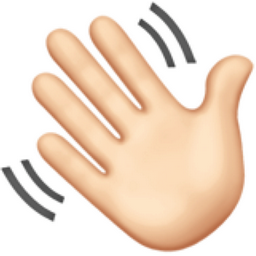
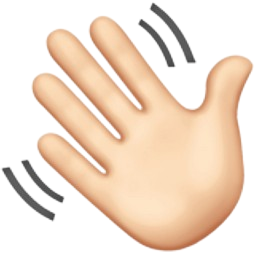
Add Animate

diff --git a/tailwind.config.js b/tailwind.config.js
@@ -2,7 +2,22 @@
 export default {
   content: ["./index.html", "./src/**/*.{js,ts,jsx,tsx}"],
   theme: {
-    extend: {},
+    extend: {
+      keyframes: {
+        wave: {
+          '0%': { transform: 'rotate(0deg)' },
+          '10%': { transform: 'rotate(14deg)' },
+          '20%': { transform: 'rotate(-8deg)' },
+          '30%': { transform: 'rotate(14deg)' },
+          '40%': { transform: 'rotate(-4deg)' },
+          '50%': { transform: 'rotate(10deg)' },
+          '60%, 100%': { transform: 'rotate(0deg)' }
+        }
+      },
+      animation: {
+        wave: 'wave 2.5s ease-in-out infinite'
+      }
+    },
     fontFamily: {
       poppins: ["Poppins", "sans-serif"],
       jakarta: ["Plus Jakarta Sans", "sans-serif"],

diff --git a/src/Pages/Home.jsx b/src/Pages/Home.jsx
@@ -78,7 +78,7 @@ function Home() {
                   data-aos-duration="1000"
                 >
                   Hii, I'm Bintang Yudha!
-                  <img src={WavingHand} className="w-8 h-8" />
+                  <img src={WavingHand} className="w-8 h-8 transition-all origin-[70%_70%] animate-wave" />
                 </h1>
 
                 <p
